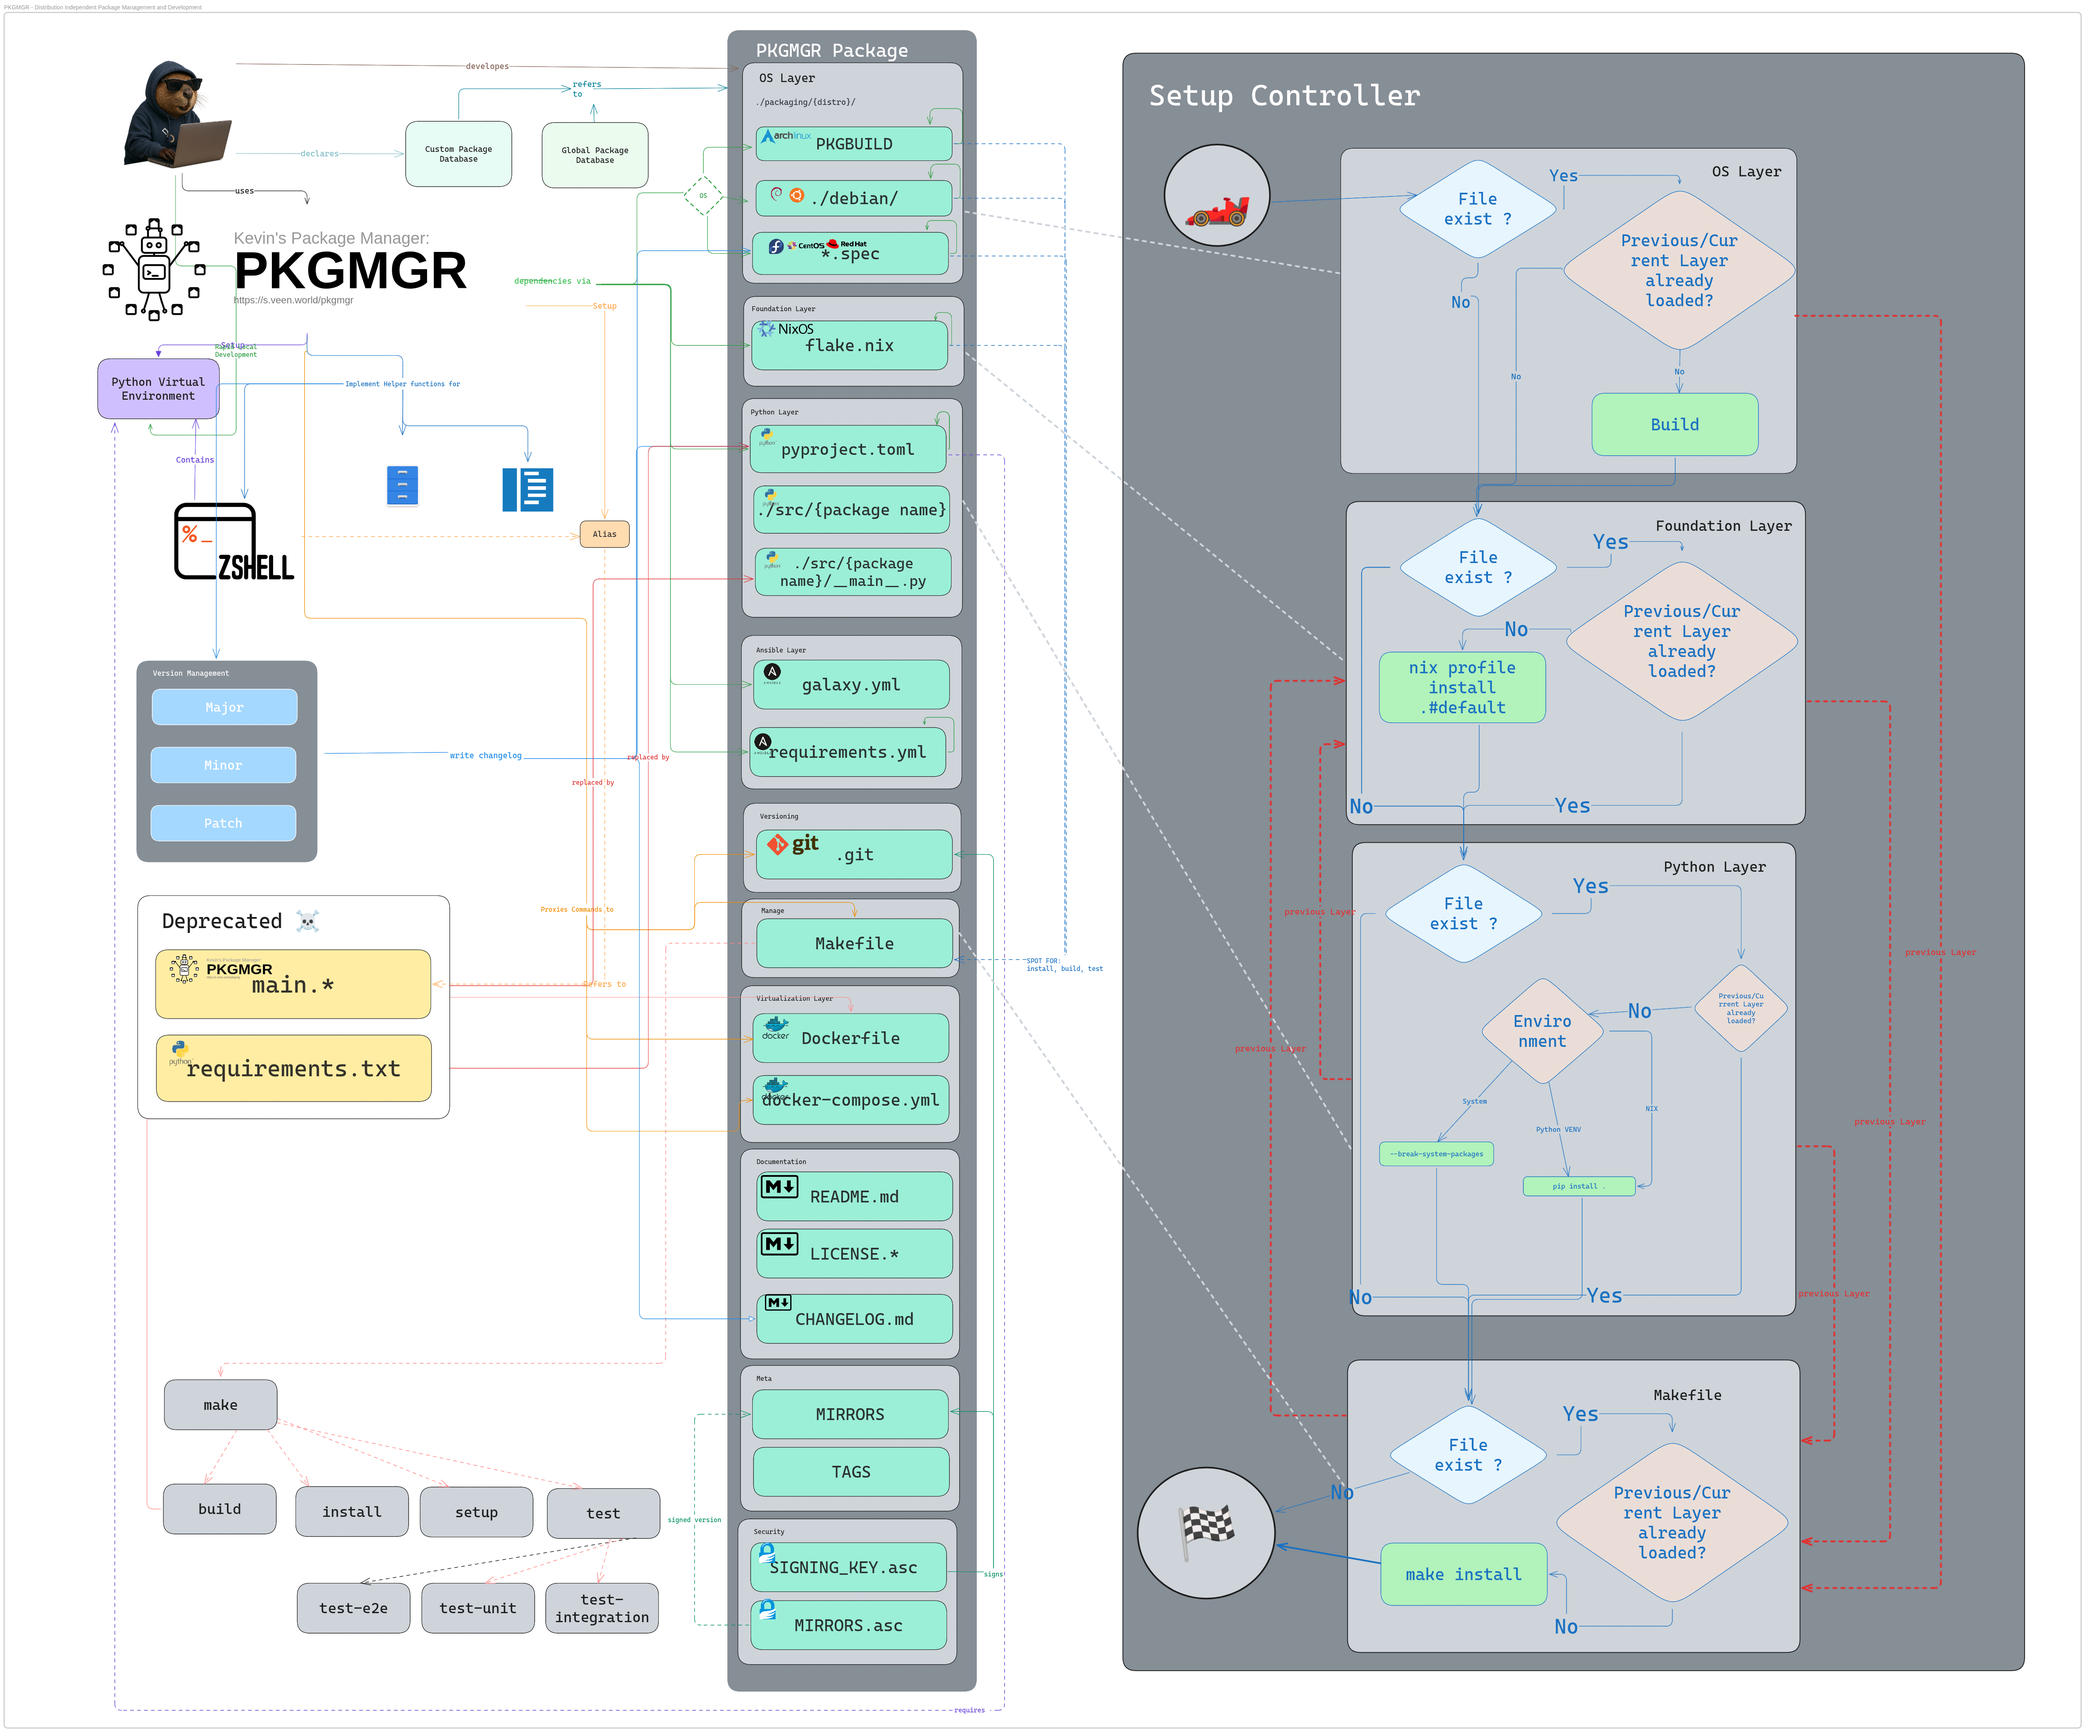
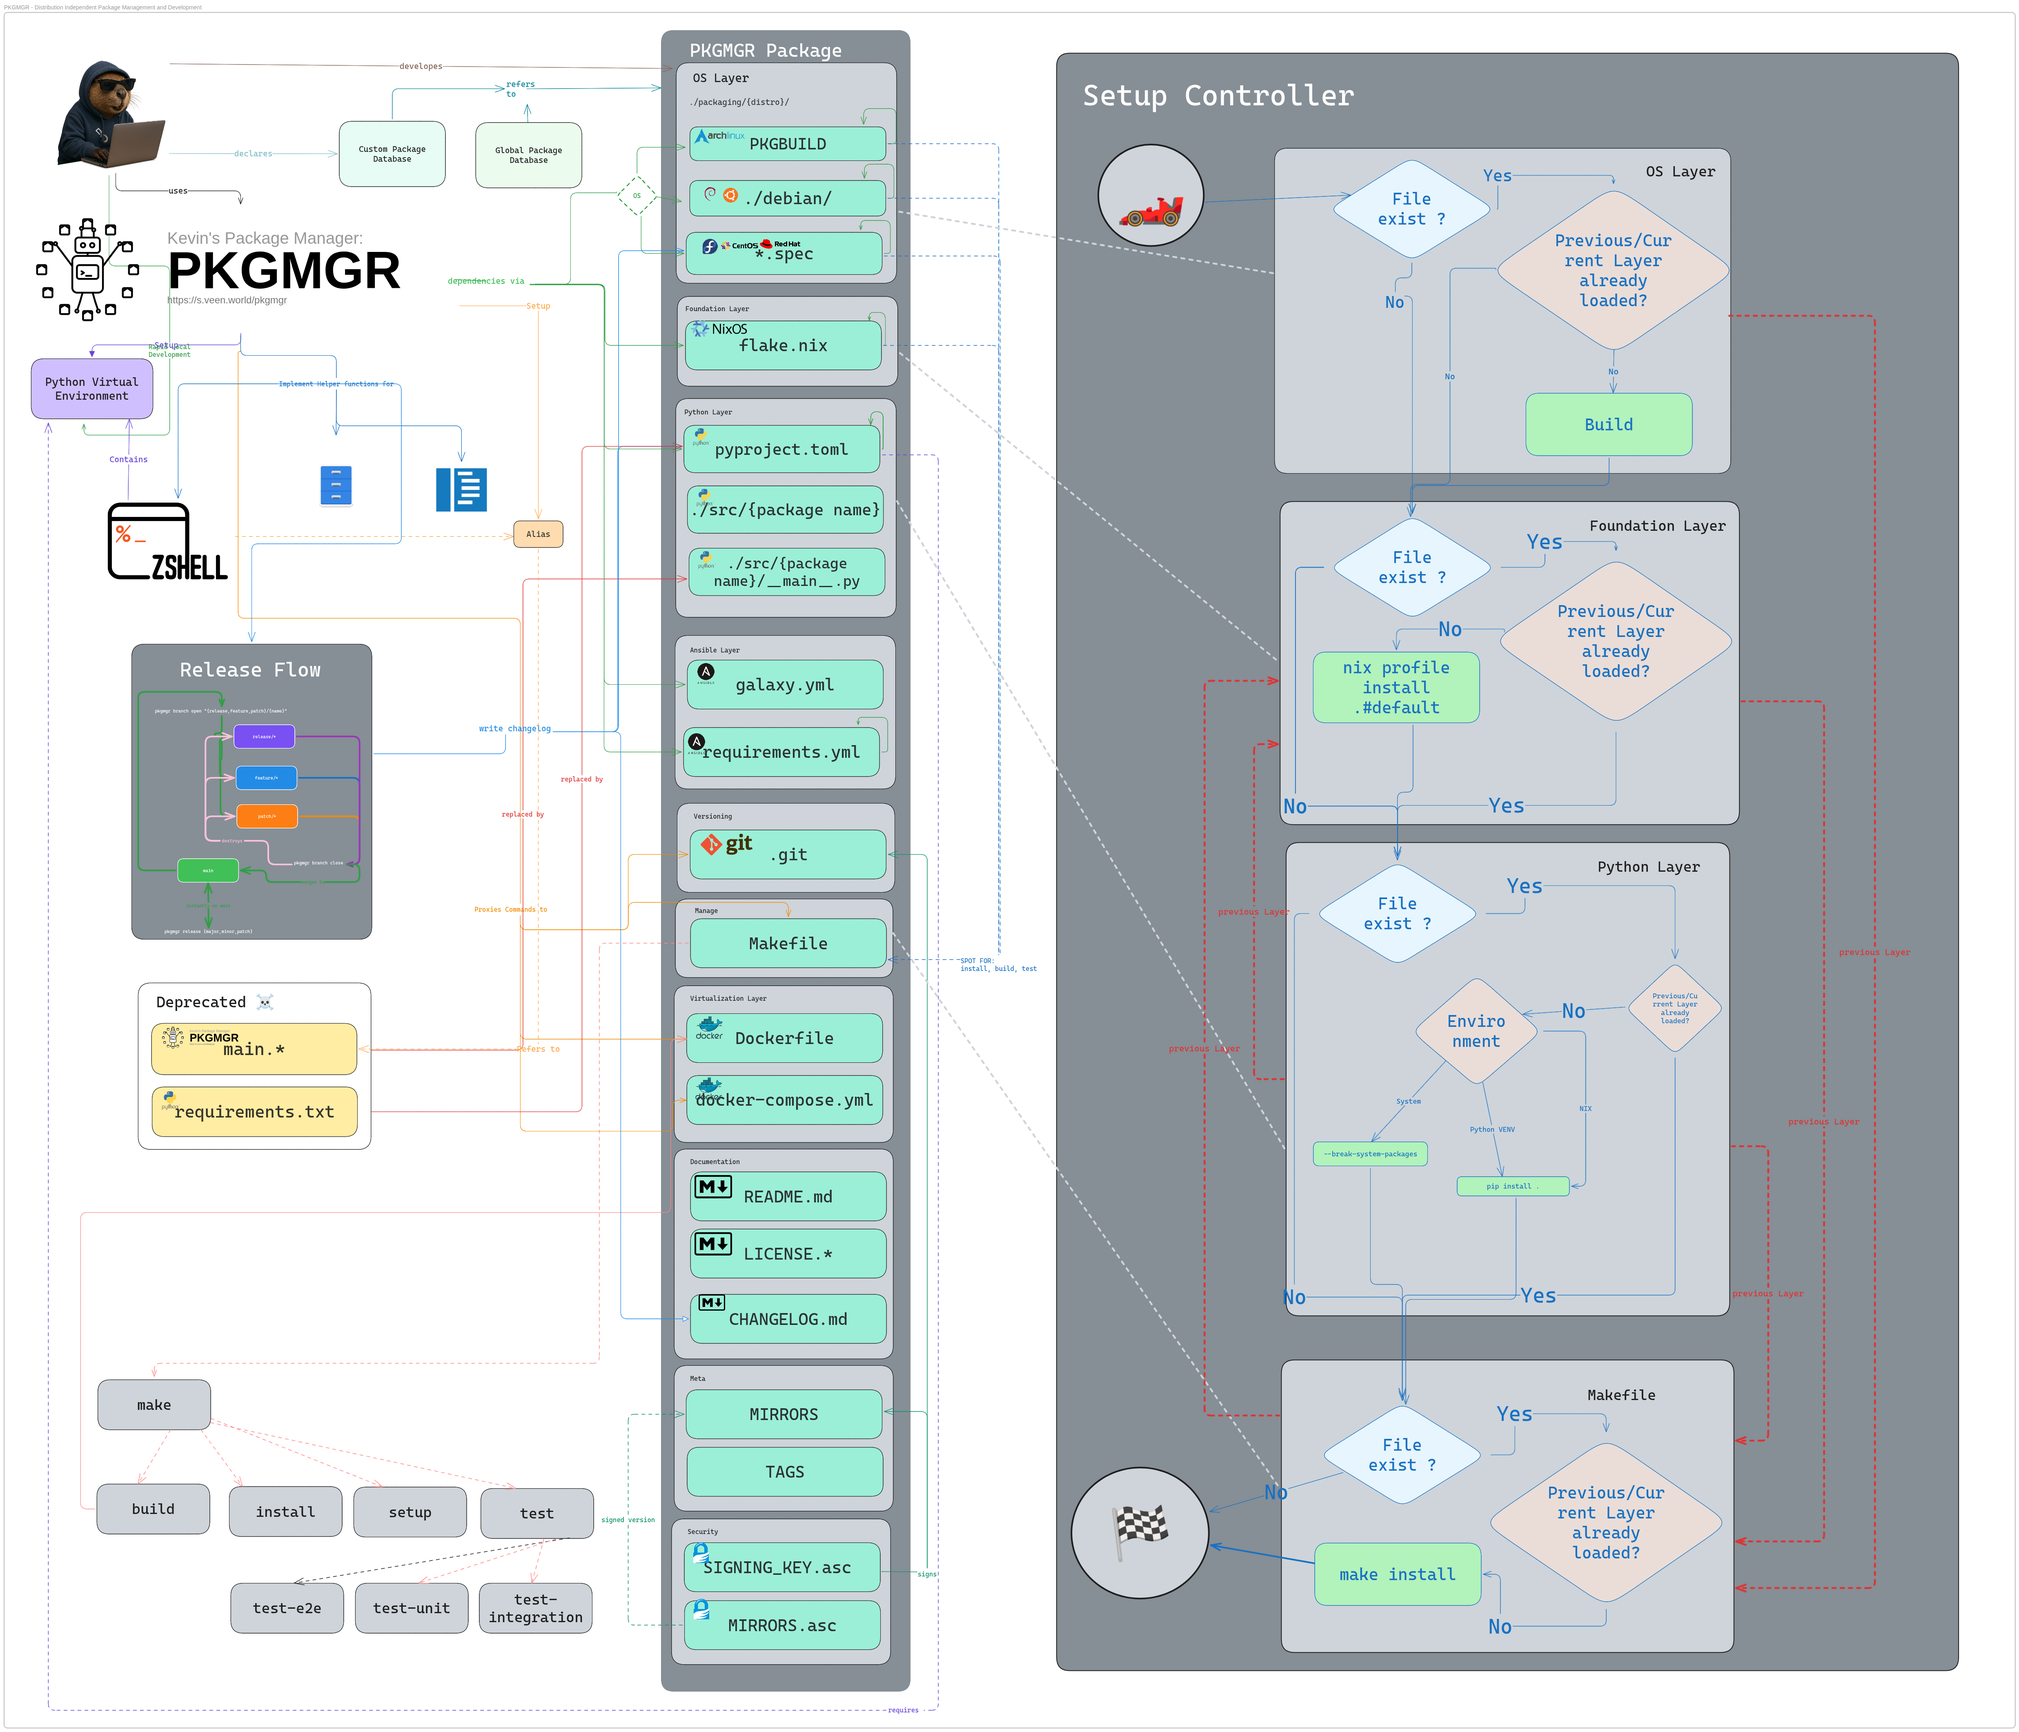
**refactor(readme): rewrite README for multi-distro focus and Nix-based workflows**
Expanded and modernized the README to reflect PKGMGR's purpose as a
multi-distro development and packaging orchestrator. Added explanations for
Nix-based cross-distro workflows, clarified installation steps, documented the
full CLI capabilities, and embedded the architecture diagram.

Also replaced the verbose CLI DESCRIPTION_TEXT with a concise summary suitable
for `--help` output.

Included updated `assets/map.png`.

https://chatgpt.com/share/693b1d71-ca08-800f-a000-f3be49f7efb5

diff --git a/src/pkgmgr/cli/__init__.py b/src/pkgmgr/cli/__init__.py
@@ -18,51 +18,16 @@ USER_CONFIG_PATH = os.path.expanduser("~/.config/pkgmgr/config.yaml")
 
 DESCRIPTION_TEXT = """\
 \033[1;32mPackage Manager 🤖📦\033[0m
-\033[3mKevin's Package Manager is a multi-repository, multi-package, and multi-format 
-development tool crafted by and designed for:\033[0m
-  \033[1;34mKevin Veen-Birkenbach\033[0m
-  \033[4mhttps://www.veen.world/\033[0m
+\033[3mKevin's multi-distro package and workflow manager.\033[0m
+  \033[1;34mKevin Veen-Birkenbach\033[0m – \033[4mhttps://www.veen.world/\033[0m
 
-\033[1mOverview:\033[0m
-A powerful toolchain that unifies and automates workflows across heterogeneous
-project ecosystems. pkgmgr is not only a package manager — it is a full 
-developer-oriented orchestration tool.
+Built in \033[1;33mPython\033[0m on top of \033[1;33mNix flakes\033[0m to manage many
+repositories and packaging formats (pyproject.toml, flake.nix,
+PKGBUILD, debian, Ansible, …) with one CLI.
 
-It automatically detects, merges, and processes metadata from multiple 
-dependency formats, including:
-  • \033[1;33mPython:\033[0m pyproject.toml, requirements.txt  
-  • \033[1;33mNix:\033[0m flake.nix  
-  • \033[1;33mArch Linux:\033[0m PKGBUILD  
-  • \033[1;33mAnsible:\033[0m requirements.yml  
-
-This allows pkgmgr to perform installation, updates, verification, dependency
-resolution, and synchronization across complex multi-repo environments — with a
-single unified command-line interface.
-
-\033[1mDeveloper Tools:\033[0m
-pkgmgr includes an integrated toolbox to enhance daily development workflows:
-
-  • \033[1;33mVS Code integration:\033[0m Auto-generate and open multi-repo workspaces  
-  • \033[1;33mTerminal integration:\033[0m Open repositories in new GNOME Terminal tabs  
-  • \033[1;33mExplorer integration:\033[0m Open repositories in your file manager  
-  • \033[1;33mRelease automation:\033[0m Version bumping, changelog updates, and tagging  
-  • \033[1;33mBatch operations:\033[0m Execute shell commands across multiple repositories  
-  • \033[1;33mGit/Docker/Make wrappers:\033[0m Unified command proxying for many tools 
-
-\033[1mCapabilities:\033[0m
-  • Clone, pull, verify, update, and manage many repositories at once  
-  • Resolve dependencies across languages and ecosystems  
-  • Standardize install/update workflows  
-  • Create symbolic executable wrappers for any project  
-  • Merge configuration from default + user config layers  
-
-Use pkgmgr as both a robust package management framework and a versatile 
-development orchestration tool.
-
-For detailed help on each command, use:
-    \033[1mpkgmgr <command> --help\033[0m
+For details on any command, run:
+  \033[1mpkgmgr <command> --help\033[0m
 """
-
 
 def main() -> None:
     """

diff --git a/README.md b/README.md
@@ -1,70 +1,186 @@
-# Package Manager🤖📦
+# Package Manager 🤖📦
+
 [![GitHub Sponsors](https://img.shields.io/badge/Sponsor-GitHub%20Sponsors-blue?logo=github)](https://github.com/sponsors/kevinveenbirkenbach)
-[![Patreon](https://img.shields.io/badge/Support-Patreon-orange?logo=patreon)](https://www.patreon.com/c/kevinveenbirkenbach) 
-[![Buy Me a Coffee](https://img.shields.io/badge/Buy%20me%20a%20Coffee-Funding-yellow?logo=buymeacoffee)](https://buymeacoffee.com/kevinveenbirkenbach) [![PayPal](https://img.shields.io/badge/Donate-PayPal-blue?logo=paypal)](https://s.veen.world/paypaldonate)
+[![Patreon](https://img.shields.io/badge/Support-Patreon-orange?logo=patreon)](https://www.patreon.com/c/kevinveenbirkenbach)
+[![Buy Me a Coffee](https://img.shields.io/badge/Buy%20me%20a%20Coffee-Funding-yellow?logo=buymeacoffee)](https://buymeacoffee.com/kevinveenbirkenbach)
+[![PayPal](https://img.shields.io/badge/Donate-PayPal-blue?logo=paypal)](https://s.veen.world/paypaldonate)
 [![GitHub license](https://img.shields.io/badge/License-MIT-blue.svg)](LICENSE)
 [![GitHub repo size](https://img.shields.io/github/repo-size/kevinveenbirkenbach/package-manager)](https://github.com/kevinveenbirkenbach/package-manager)
 
-*Kevins's* Package Manager is a configurable Python tool designed to manage multiple repositories via Bash. It automates common Git operations such as clone, pull, push, status, and more. Additionally, it handles the creation of executable wrappers and alias links for your repositories.
+**Kevin's Package Manager (PKGMGR)** is a *multi-distro* package manager and workflow orchestrator.
+It helps you **develop, package, release and manage projects across multiple Linux-based
+operating systems** (Arch, Debian, Ubuntu, Fedora, CentOS, …).
+
+PKGMGR is implemented in **Python** and uses **Nix (flakes)** as a foundation for
+distribution-independent builds and tooling. On top of that it provides a rich
+CLI that proxies common developer tools (Git, Docker, Make, …) and glues them
+together into repeatable development workflows.
+
+---
+
+## Why PKGMGR? 🧠
+
+Traditional distro package managers like `apt`, `pacman` or `dnf` focus on a
+single operating system. PKGMGR instead focuses on **your repositories and
+development lifecycle**:
+
+* one configuration for all your repos,
+* one CLI to interact with them,
+* one Nix-based layer to keep tooling reproducible across distros.
+
+You keep using your native package manager where it makes sense – PKGMGR
+coordinates the *development and release flow* around it.
+
+---
 
 ## Features 🚀
 
-- **Installation & Setup:**  
-  Create executable wrappers with auto-detected commands (e.g. `main.sh` or `main.py`).
-  
-- **Git Operations:**  
-  Easily perform `git pull`, `push`, `status`, `commit`, `diff`, `add`, `show`, and `checkout` with extra parameters passed through.
-  
-- **Configuration Management:**  
-  Manage repository configurations via a default file (`config/defaults.yaml`) and a user-specific file (`config/config.yaml`). Initialize, add, delete, or ignore entries using subcommands.
-  
-- **Path & Listing:**  
-  Display repository paths or list all configured packages with their details.
-  
-- **Custom Aliases:**  
-  Generate and manage custom aliases for easy command invocation.
+### Multi-distro development & packaging
+
+* Manage **many repositories at once** from a single `config/config.yaml`.
+* Drive full **release pipelines** across Linux distributions using:
+
+  * Nix flakes (`flake.nix`)
+  * PyPI style builds (`pyproject.toml`)
+  * OS packages (PKGBUILD, Debian control/changelog, RPM spec)
+  * Ansible Galaxy metadata and more.
+
+### Rich CLI for daily work
+
+All commands are exposed via the `pkgmgr` CLI and are available on every distro:
+
+* **Repository management**
+
+  * `clone`, `update`, `install`, `delete`, `deinstall`, `path`, `list`, `config`
+* **Git proxies**
+
+  * `pull`, `push`, `status`, `diff`, `add`, `show`, `checkout`,
+    `reset`, `revert`, `rebase`, `commit`, `branch`
+* **Docker & Compose orchestration**
+
+  * `build`, `up`, `down`, `exec`, `ps`, `start`, `stop`, `restart`
+* **Release toolchain**
+
+  * `version`, `release`, `changelog`, `make`
+* **Mirror & workflow helpers**
+
+  * `mirror` (list/diff/merge/setup), `shell`, `terminal`, `code`, `explore`
+
+Many of these commands support `--preview` mode so you can inspect the
+underlying Git or Docker calls without executing them.
+
+### Full development workflows
+
+PKGMGR is not just a helper around Git commands. Combined with its release and
+versioning features it can drive **end-to-end workflows**:
+
+1. Clone and mirror repositories.
+2. Run tests and builds through `make` or Nix.
+3. Bump versions, update changelogs and tags.
+4. Build distro-specific packages.
+5. Keep all mirrors and working copies in sync.
+
+The extensive E2E tests (`tests/e2e/`) and GitHub Actions workflows (including
+“virgin user” and “virgin root” Arch tests) validate these flows across
+different Linux environments.
+
+---
 
 ## Architecture & Setup Map 🗺
 
-The following diagram provides a full overview of PKGMGR’s package structure,
-installation layers, and setup controller flow:
+The following diagram gives a full overview of:
+
+* PKGMGR’s package structure,
+* the layered installers (OS, foundation, Python, Makefile),
+* and the setup controller that decides which layer to use on a given system.
 
 ![PKGMGR Architecture](assets/map.png)
 
-**Diagram status:** *Stand: 11. Dezember 2025*  
-**Always-up-to-date version:** https://s.veen.world/pkgmgrmp
+**Diagram status:** 11 December 2025
+**Always-up-to-date version:** [https://s.veen.world/pkgmgrmp](https://s.veen.world/pkgmgrmp)
+
+---
 
 ## Installation ⚙
 
-Clone the repository and ensure your `~/.local/bin` is in your system PATH:
+### 1. Get the latest stable version
+
+For a stable setup, use the **latest tagged release** (the tag pointed to by
+`latest`):
 
 ```bash
 git clone https://github.com/kevinveenbirkenbach/package-manager.git
 cd package-manager
+
+# Optional but recommended: checkout the latest stable tag
+git fetch --tags
+git checkout "$(git describe --tags --abbrev=0)"
 ```
 
-Install make and pip if not installed yet:
+### 2. Install via Make
+
+The project ships with a Makefile that encapsulates the typical installation
+flow. On most systems you only need:
 
 ```bash
-pacman -S make python-pip
+# Ensure make, Python and pip are installed via your distro package manager
+# (e.g. pacman -S make python python-pip, apt install make python3-pip, ...)
+
+make install
 ```
 
-Then, run the following command to set up the project:
+This will:
+
+* create or reuse a Python virtual environment,
+* install PKGMGR (and its Python dependencies) into that environment,
+* expose the `pkgmgr` executable on your PATH (usually via `~/.local/bin`),
+* prepare Nix-based integration where available so PKGMGR can build and manage
+  packages distribution-independently.
+
+For development use, you can also run:
 
 ```bash
 make setup
 ```
 
-The `make setup` command will:
-- Make `main.py` executable.
-- Install required packages from `requirements.txt`.
-- Execute `python main.py install` to complete the installation.
+which prepares the environment and leaves you with a fully wired development
+workspace (including Nix, tests and scripts).
+
+---
+
+## Usage 🧰
+
+After installation, the main entry point is:
+
+```bash
+pkgmgr --help
+```
+
+This prints a list of all available subcommands, for example:
+
+* `pkgmgr list --all` – show all repositories in the config
+* `pkgmgr update --all --clone-mode https` – update every repository
+* `pkgmgr release patch --preview` – simulate a patch release
+* `pkgmgr version --all` – show version information for all repositories
+* `pkgmgr mirror setup --preview --all` – prepare Git mirrors (no changes in preview)
+* `pkgmgr make install --preview pkgmgr` – preview make install for the pkgmgr repo
+
+The help for each command is available via:
+
+```bash
+pkgmgr <command> --help
+```
+
+---
 
 ## License 📄
 
 This project is licensed under the MIT License.
+See the [LICENSE](LICENSE) file for details.
+
+---
 
 ## Author 👤
 
-Kevin Veen-Birkenbach  
+Kevin Veen-Birkenbach
 [https://www.veen.world](https://www.veen.world)
